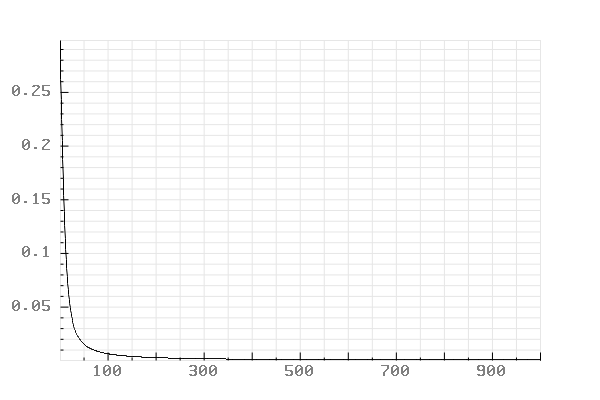
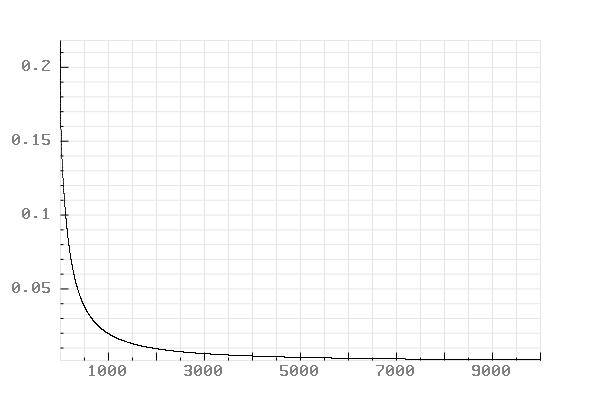
tried to get backprop working for multiple sets of training data

diff --git a/NN-Library/NN-Library.cpp b/NN-Library/NN-Library.cpp
@@ -40,27 +40,28 @@ void PlotGraph(std::vector<double> x, std::vector<double> y, std::string fileNam
 
 int main()
 {
-	std::vector<float> testInputs = { 0.05f, 0.1f };
-	std::vector<float> testWeights = { 0.15f, 0.2f, 0.25f, 0.3f };
-	std::vector<float> testBiases = { 0.35f, 0.35f };
-	std::vector<float> expectedOutputs = { 0.01f, 0.99f };
+	std::vector<float> testInputs = { 0.0f, 0.0f };
+	std::vector<float> testWeights = { 0.2f, 0.8f, 0.6f, 0.4f };
+	std::vector<float> testBiases = { 0.5f, 0.1f };
+	std::vector<float> expectedOutputs = { 0.0f, 0.0f };
 	int testNodes = 2;
+	int sets = 4;
 	ACTIVATION testActivation = ACTIVATION::SIGMOID;
-	ConnectedLayer* cLayer = new ConnectedLayer(testInputs, testWeights, testBiases, testNodes, testActivation);
+	ConnectedLayer* cLayer = new ConnectedLayer(testInputs, sets, testWeights, testBiases, testNodes, testActivation);
 	
-	testInputs = { 0.05f, 0.1f };
+	/*testInputs = { 0.0f, 0.0f };
 	testWeights = { 0.4f, 0.45f, 0.5f, 0.55f };
 	testBiases = { 0.6f, 0.6f };
 	testNodes = 2;
 	testActivation = ACTIVATION::SIGMOID;
-	ConnectedLayer* cLayer2 = new ConnectedLayer(testInputs, testWeights, testBiases, testNodes, testActivation);
+	ConnectedLayer* cLayer2 = new ConnectedLayer(testInputs, testWeights, testBiases, testNodes, testActivation);*/
 
 	NeuralNetwork* nn = new NeuralNetwork();
 	nn->AddLayer(cLayer);
-	nn->AddLayer(cLayer2);
+	//nn->AddLayer(cLayer2);
 
 
-	const int iterations = 1000;
+	const int iterations = 10000;
 	std::vector<float> outputs;
 	float cost = 0.0f;
 	std::vector<double> outputCosts;
@@ -70,26 +71,81 @@ int main()
 
 	for (int i = 0; i < iterations; ++i)
 	{
+		cost = 0.0f;
+		testInputs = { 0.0f, 0.0f };
+		expectedOutputs = { 0.0f, 0.0f };
+		nn->SetInputs(testInputs);
 		nn->CalculateOutputs();
 		nn->BackPropagate(expectedOutputs);
-		cost = nn->GetCost();
+		cost += nn->GetCost();
+
+		testInputs = { 0.0f, 1.0f };
+		expectedOutputs = { 1.0f, 0.0f };
+		nn->SetInputs(testInputs);
+		nn->CalculateOutputs();
+		nn->BackPropagate(expectedOutputs);
+		cost += nn->GetCost();
+
+		testInputs = { 1.0f, 0.0f };
+		expectedOutputs = { 1.0f, 0.0f };
+		nn->SetInputs(testInputs);
+		nn->CalculateOutputs();
+		nn->BackPropagate(expectedOutputs);
+		cost += nn->GetCost();
+
+
+		testInputs = { 1.0f, 1.0f };
+		expectedOutputs = { 1.0f, 1.0f };
+		nn->SetInputs(testInputs);
+		nn->CalculateOutputs();
+		nn->BackPropagate(expectedOutputs);
+		cost += nn->GetCost();
+
+		cost /= sets;
 		outputCosts.push_back(cost);
 		outputIterations.push_back(double(i + 1));
 		outputs = nn->GetOutputs();
 
 		std::cout << "Output 0 = " << outputs[0] << "\nOutput 1 = " << outputs[1] << "\nCost = " << cost << "\n\n";
-		outputOutputs.push_back(outputs[0]);
-		outputOutputs2.push_back(outputs[1]);
+		//outputOutputs.push_back(outputs[0]);
+		//outputOutputs2.push_back(outputs[1]);
 	}
 
-	
+	std::vector<float> input = { 0.0f, 0.0f };
+	nn->SetInputs(testInputs);
+	nn->CalculateOutputs();
+	outputs = nn->GetOutputs();
+
+	std::cout << "Output 0 = " << outputs[0] << "\nOutput 1 = " << outputs[1] <<  "\n\n";
+
+	input = { 0.0f, 1.0f };
+	nn->SetInputs(testInputs);
+	nn->CalculateOutputs();
+	outputs = nn->GetOutputs();
+
+	std::cout << "Output 0 = " << outputs[0] << "\nOutput 1 = " << outputs[1] << "\n\n";
+
+	input = { 1.0f, 0.0f };
+	nn->SetInputs(testInputs);
+	nn->CalculateOutputs();
+	outputs = nn->GetOutputs();
+
+	std::cout << "Output 0 = " << outputs[0] << "\nOutput 1 = " << outputs[1] << "\n\n";
+
+	input = { 1.0f, 1.0f };
+	nn->SetInputs(testInputs);
+	nn->CalculateOutputs();
+	outputs = nn->GetOutputs();
+
+	std::cout << "Output 0 = " << outputs[0] << "\nOutput 1 = " << outputs[1] << "\n\n";
+
 	PlotGraph(outputIterations, outputCosts, "OutputCostOverTime.png");
-	PlotGraph(outputIterations, outputOutputs, "OutputOneOverTime.png");
-	PlotGraph(outputIterations, outputOutputs2, "OutputTwoOverTime.png");
+	//PlotGraph(outputIterations, outputOutputs, "OutputOneOverTime.png");
+	//PlotGraph(outputIterations, outputOutputs2, "OutputTwoOverTime.png");
 
 	system("OutputCostOverTime.png");
-	system("OutputOneOverTime.png");
-	system("OutputTwoOverTime.png");
+	//system("OutputOneOverTime.png");
+	//system("OutputTwoOverTime.png");
 
 	return 0;
 }

diff --git a/NN-Library/ConnectedLayer.cpp b/NN-Library/ConnectedLayer.cpp
@@ -4,21 +4,33 @@ ConnectedLayer::ConnectedLayer()
 {
 }
 
-ConnectedLayer::ConnectedLayer(std::vector<float> in, std::vector<float> wei, std::vector<float> bi, int no, ACTIVATION act)
+ConnectedLayer::ConnectedLayer(std::vector<float> in, int soi, std::vector<float> wei, std::vector<float> bi, int no, ACTIVATION act)
 {
 	activation = act;
 	inputs = in;
 	biases = bi;
 	weights = wei;
 	nodes = no;
+	setsOfInputs = soi;
 
+	for (int i = 0; i < setsOfInputs * biases.size(); ++i)
+	{
+		biasesCosts.push_back(0.0f);
+	}
+	
+	for (int i = 0; i < setsOfInputs * weights.size(); ++i)
+	{
+		weightsCosts.push_back(0.0f);
+	}
 }
 
 void ConnectedLayer::CalculateOutputs()
 {
 	outputs.clear();
+
 	int numberOfWeights = weights.size();
 	int numOfWeightsPerNode = numberOfWeights / nodes;
+
 	for (int i = 0; i < nodes; ++i)
 	{
 		float tempOutput = 0;
@@ -37,7 +49,6 @@ void ConnectedLayer::BackPropagate(std::vector<float> expectedOutputs)
 {
 	biasesCosts.clear();
 	weightsCosts.clear();
-	
 
 	int numberOfWeights = weights.size();
 	int numOfWeightsPerNode = numberOfWeights / nodes;
@@ -50,7 +61,7 @@ void ConnectedLayer::BackPropagate(std::vector<float> expectedOutputs)
 		float biasCost = temp1 * temp2;
 		biasesCosts.push_back(biasCost);
 
-		//Update Weigths
+		//Update Weights
 		
 		for (int i = 0; i < numOfWeightsPerNode; ++i)
 		{
@@ -66,7 +77,6 @@ void ConnectedLayer::BackPropagate(std::vector<float> previousBiasCosts, std::ve
 {
 	biasesCosts.clear();
 	weightsCosts.clear();
-
 
 	int numberOfWeights = weights.size();
 	int numOfWeightsPerNode = numberOfWeights / nodes;
@@ -105,20 +115,18 @@ void ConnectedLayer::SetInputs(std::vector<float> in)
 void ConnectedLayer::UpdateWeightsAndBiases()
 {
 	float learningRate = 0.5f;
-	int numberOfWeights = weights.size();
-	int numOfWeightsPerNode = numberOfWeights / nodes;
 
-	for (int neuronIndex = 0; neuronIndex < nodes; ++neuronIndex)
+	int numOfWeights = weights.size();
+	int numOfBiases = biases.size();
+
+	for (int weightIndex = 0; weightIndex < numOfWeights; ++weightIndex)
 	{
-		//Update Bias 
-		biases[neuronIndex] -= learningRate * biasesCosts[neuronIndex];
-
-		//Update Weigths
-
-		for (int i = 0; i < numOfWeightsPerNode; ++i)
-		{
-			weights[i + (neuronIndex * numOfWeightsPerNode)] -= learningRate * weightsCosts[i + (neuronIndex * numOfWeightsPerNode)];
-		}
+		weights[weightIndex] -= learningRate * (weightsCosts[weightIndex] / setsOfInputs);
+	}
+	
+	for (int biasIndex = 0; biasIndex < numOfBiases; ++biasIndex)
+	{
+		biases[biasIndex] -= learningRate * (biasesCosts[biasIndex] / setsOfInputs);
 	}
 }
 

diff --git a/NN-Library/NeuralNetwork.cpp b/NN-Library/NeuralNetwork.cpp
@@ -7,6 +7,13 @@
 NeuralNetwork::NeuralNetwork()
 {
 	numberOfLayers = 0;
+	setsOfInputs = 1;
+}
+
+NeuralNetwork::NeuralNetwork(int sets)
+{
+	numberOfLayers = 0;
+	setsOfInputs = sets;
 }
 
 NeuralNetwork::~NeuralNetwork()
@@ -18,6 +25,16 @@ void NeuralNetwork::AddLayer(Layer* layerToAdd)
 {
 	Network.push_back(layerToAdd);
 	numberOfLayers = Network.size();
+
+	int numOfWeights = layerToAdd->weights.size();
+
+	for (int i = 0; i < numOfWeights; ++i)
+		weights.push_back(layerToAdd->weights[i]);
+	
+	int numOfBiases = layerToAdd->biases.size();
+
+	for (int i = 0; i < numOfBiases; ++i)
+		biases.push_back(layerToAdd->biases[i]);
 }
 
 void NeuralNetwork::SetInputs(std::vector<float> inputs)
@@ -44,6 +61,9 @@ void NeuralNetwork::CalculateOutputs()
 void NeuralNetwork::BackPropagate(std::vector<float> expectedOutputs)
 {
 	cost = 0.0f;
+	biasesCosts.clear();
+	weightsCosts.clear();
+
 	int numberOfOutputs = outputs.size();
 	for (int i = 0; i < numberOfOutputs; ++i)
 	{
@@ -51,22 +71,17 @@ void NeuralNetwork::BackPropagate(std::vector<float> expectedOutputs)
 	}
 	cost /= numberOfOutputs;
 
-
 	Network[numberOfLayers - 1]->BackPropagate(expectedOutputs);
 
 	for (int i = numberOfLayers - 2; i >= 0; --i)
 	{
 		Network[i]->BackPropagate(Network[i+1]->GetBiasCosts(), Network[i + 1]->weights);
 	}
-
-
 	
 	for (int i = numberOfLayers - 1; i >= 0; --i)
 	{
 		Network[i]->UpdateWeightsAndBiases();
 	}
-
-
 }
 
 int NeuralNetwork::GetNumberOfLayers()
@@ -87,4 +102,12 @@ std::vector<Layer*> NeuralNetwork::GetNetwork()
 float NeuralNetwork::GetCost()
 {
 	return cost;
+}
+
+void NeuralNetwork::ResetValues()
+{
+	for (int layerIndex = 0; layerIndex < numberOfLayers; ++layerIndex)
+	{
+		Network[layerIndex]->ResetValues();
+	}
 }

diff --git a/NN-Library/ConnectedLayer.h b/NN-Library/ConnectedLayer.h
@@ -6,13 +6,14 @@ class ConnectedLayer : public Layer
 {
 public:
 	ConnectedLayer();
-	ConnectedLayer(std::vector<float> in, std::vector<float> wei, std::vector<float> bi, int no, ACTIVATION act);
+	ConnectedLayer(std::vector<float> in, int soi, std::vector<float> wei, std::vector<float> bi, int no, ACTIVATION act);
 
 	void CalculateOutputs() override;
 	void BackPropagate(std::vector<float> expectedOutputs) override;
 	void BackPropagate(std::vector<float> previousBiasCosts, std::vector<float> previousWeightCosts) override;
 	void SetInputs(std::vector<float> in);
 	void UpdateWeightsAndBiases() override;
+	void ResetValues() override;
 	std::vector<float> GetBiasCosts() override;
 	std::vector<float> GetWeightCosts() override;
 

diff --git a/NN-Library/Constants.h b/NN-Library/Constants.h
@@ -24,11 +24,13 @@ public:
 	std::vector<float> biases;
 	int nodes;
 	ACTIVATION activation;
+	int setsOfInputs;
 
 	virtual void CalculateOutputs() {};
 	virtual void BackPropagate(std::vector<float> expectedOutputs) {};
 	virtual void BackPropagate(std::vector<float> previousBiasCosts, std::vector<float> previousWeightCosts) {};
 	virtual void UpdateWeightsAndBiases() {};
+	virtual void ResetValues() {};
 	virtual std::vector<float> GetBiasCosts() { return std::vector<float>(); };
 	virtual std::vector<float> GetWeightCosts() { return std::vector<float>(); };
 };

diff --git a/NN-Library/NeuralNetwork.h b/NN-Library/NeuralNetwork.h
@@ -5,6 +5,7 @@ class NeuralNetwork
 {
 public:
 	NeuralNetwork();
+	NeuralNetwork(int sets);
 	~NeuralNetwork();
 
 	void AddLayer(Layer* layerToAdd);
@@ -16,11 +17,20 @@ public:
 	std::vector<Layer*> GetNetwork();
 	float GetCost();
 
+	void ResetValues();
+
 private:
 	std::vector<Layer*> Network;
 	int numberOfLayers;
 	std::vector<float> outputs;
 
 	float cost = 0.0f;
+	int setsOfInputs;
+
+	std::vector<float> weights;
+	std::vector<float> biases;
+	std::vector<float> weightsCosts;
+	std::vector<float> biasesCosts;
+
 };
 
